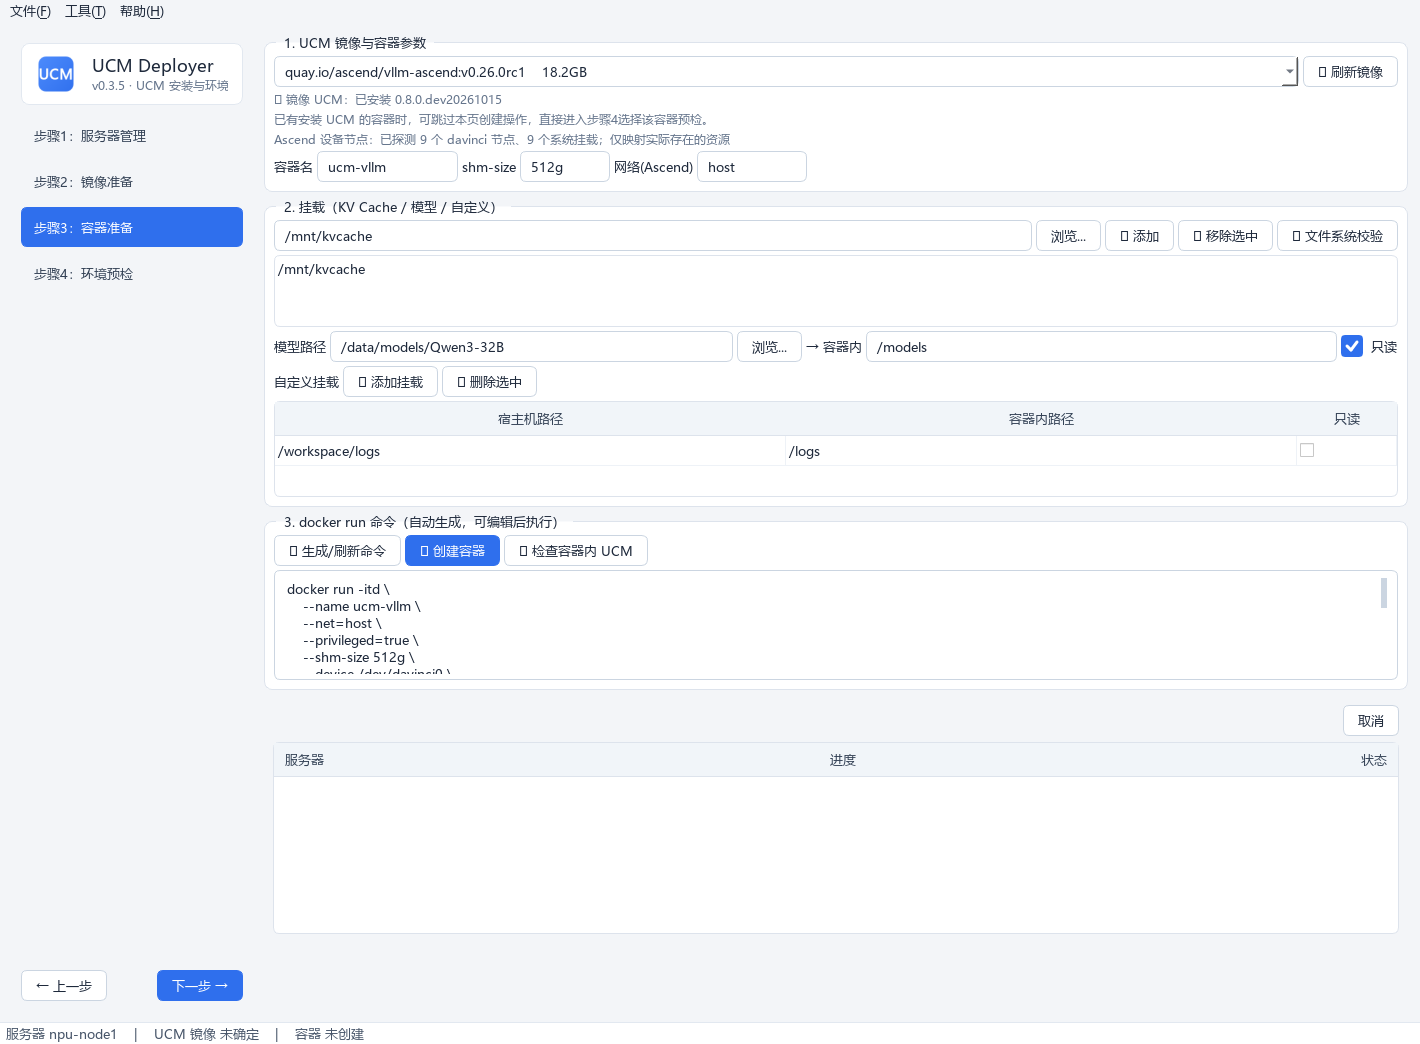
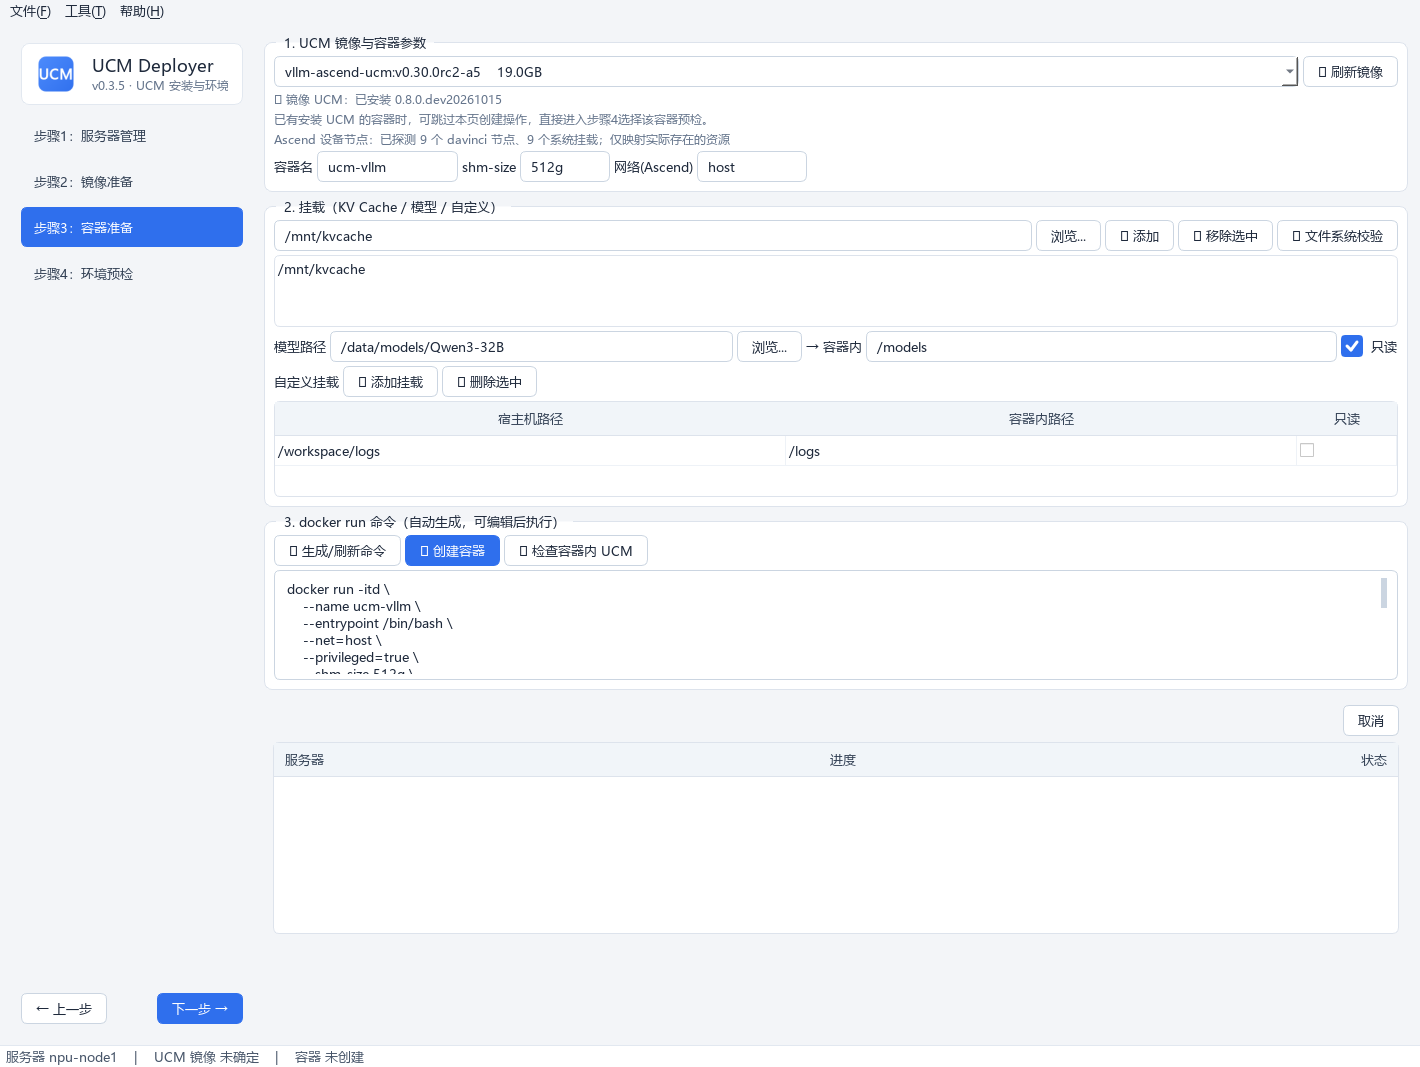
fix(container): start shell without inference entrypoint

diff --git a/docs/index.html b/docs/index.html
@@ -441,6 +441,7 @@ python -m venv .venv
   <pre><code># Ascend NPU：仅映射实际存在的设备节点与系统资源
 docker run -itd \\
   --name ucm-vllm \\
+  --entrypoint /bin/bash \\
   --net=host --shm-size 512g \\
   --device /dev/davinci0 --device /dev/davinci1 \\
   --device /dev/davinci_manager --device /dev/hisi_hdc \\
@@ -456,19 +457,20 @@ docker run -itd \\
   -v /usr/lib64:/usr/lib64 \\
   -v /mnt/kvcache:/mnt/kvcache \\
   -v /data/models/Qwen3-32B:/models:ro \\
-  vllm-ascend-ucm:v0.26.0rc1 bash
+  vllm-ascend-ucm:v0.26.0rc1
 
 # NVIDIA GPU：使用 nvidia-container-runtime
 docker run -itd \\
   --name ucm-vllm \\
+  --entrypoint /bin/bash \\
   --runtime nvidia --gpus all \\
   -p 8000:8000 --ipc=host --shm-size 512g \\
   -v /mnt/kvcache:/mnt/kvcache \\
   -v /data/models:/models:ro \\
-  vllm-openai-ucm:latest bash</code></pre>
+  vllm-openai-ucm:latest</code></pre>
   <div class="callout">
     <b>先编辑，再执行</b>
-    生成的命令完整展示在编辑框中。你可以按环境需要修改参数，点击「🚀 创建容器」后按编辑框内容执行。
+    生成的命令完整展示在编辑框中。命令固定使用 <code>--entrypoint /bin/bash</code>，只创建并保持 Bash 容器运行，不启动 vLLM。你可以按环境需要修改参数，点击「🚀 创建容器」后按编辑框内容执行。
   </div>
 </section>
 

diff --git a/ucm_deployer/core/container_manager.py b/ucm_deployer/core/container_manager.py
@@ -4,6 +4,7 @@ kvcache 挂载目录文件系统校验、宿主机目录浏览。"""
 from __future__ import annotations
 
 import re
+import shlex
 from dataclasses import dataclass, field
 from typing import Dict, List, Optional, Tuple
 
@@ -152,6 +153,7 @@ class ContainerManager:
         cfg.validate()
         lines = ["docker run -itd"]
         lines.append(f"    --name {shq(cfg.name)}")
+        lines.append("    --entrypoint /bin/bash")
 
         if cfg.device_type == DeviceType.ASCEND:
             # Ascend: --net=host + 全部 davinci 设备 + 驱动/工具挂载
@@ -197,7 +199,6 @@ class ContainerManager:
             if extra.strip():
                 lines.append("    " + extra.strip())
         lines.append(f"    {shq(cfg.image)}")
-        lines.append("    bash")
         return " \\\n".join(lines)
 
     def list_ascend_devices(self) -> List[str]:
@@ -239,9 +240,37 @@ class ContainerManager:
         return selected
 
     # ------------------------------------------------------------ 执行
+    @staticmethod
+    def _validate_shell_entrypoint(command: str) -> None:
+        """确保容器只启动 Bash，不触发镜像默认的推理服务入口。"""
+        flat = flatten_command(command)
+        try:
+            tokens = shlex.split(flat)
+        except ValueError as exc:
+            raise DockerError(f"docker run 命令引号不合法: {exc}") from exc
+
+        entrypoint = ""
+        for index, token in enumerate(tokens):
+            if token == "--entrypoint":
+                if index + 1 >= len(tokens):
+                    break
+                entrypoint = tokens[index + 1]
+            elif token.startswith("--entrypoint="):
+                entrypoint = token.split("=", 1)[1]
+
+        if entrypoint != "/bin/bash":
+            raise DockerError(
+                "创建命令必须包含 --entrypoint /bin/bash，"
+                "以覆盖镜像默认入口并避免启动 vLLM 推理服务")
+        if tokens and tokens[-1] in ("bash", "/bin/bash"):
+            raise DockerError(
+                "创建命令不得在镜像后追加 bash；"
+                "--entrypoint /bin/bash 已保证容器进入 Bash 并保持运行")
+
     def create(self, command: str,
                on_line=None) -> CommandResult:
         """执行（可能被用户编辑过的）docker run 命令。"""
+        self._validate_shell_entrypoint(command)
         flat = flatten_command(command)
         return self.docker.run(flat, on_line=on_line)
 

diff --git a/tests/test_container_manager.py b/tests/test_container_manager.py
@@ -47,7 +47,8 @@ def test_ascend_run_command(fake_ssh):
     assert "-v /data/models/DeepSeek:/models:ro" in cmd
     assert "-v /home/user/logs:/logs" in cmd
     assert "--restart=unless-stopped" in cmd
-    assert cmd.rstrip().endswith("bash")
+    assert "--entrypoint /bin/bash" in cmd
+    assert cmd.rstrip().endswith("ucm-vllm:v0.1")
     # 压缩成单行后仍是合法命令
     flat = flatten_command(cmd)
     assert "\\" not in flat
@@ -210,6 +211,25 @@ def test_create_executes_flattened(fake_ssh):
     executed = ssh._client.channels[-1].executed_command
     assert "\n" not in executed and "\\" not in executed
     assert executed.startswith("docker run -itd --name c1")
+    assert "--entrypoint /bin/bash" in executed
+    assert not executed.endswith("bash")
+
+
+def test_create_rejects_missing_shell_entrypoint(fake_ssh):
+    cm, ssh = make_cm(fake_ssh)
+    ssh._client.add(r"^docker run ", stdout="container-id-777\n")
+    with pytest.raises(Exception, match="--entrypoint /bin/bash"):
+        cm.create("docker run -itd --name c1 img:1")
+    assert not ssh._client.channels
+
+
+def test_create_rejects_trailing_bash_argument(fake_ssh):
+    cm, ssh = make_cm(fake_ssh)
+    ssh._client.add(r"^docker run ", stdout="container-id-777\n")
+    with pytest.raises(Exception, match="不得在镜像后追加 bash"):
+        cm.create(
+            "docker run -itd --entrypoint /bin/bash --name c1 img:1 bash")
+    assert not ssh._client.channels
 
 
 def test_list_host_dirs(fake_ssh):

diff --git a/tests/test_gui_smoke.py b/tests/test_gui_smoke.py
@@ -697,6 +697,8 @@ def test_container_page_command_gen(qapp, tmp_path):
 
     cmd = page.command_text()
     assert cmd.startswith("docker run -itd")
+    assert "--entrypoint /bin/bash" in cmd
+    assert not cmd.rstrip().endswith("bash")
     assert "--device /dev/davinci7" in cmd          # 8 卡全量映射
     assert "--device /dev/davinci_manager" in cmd
     assert "--net=host" in cmd
@@ -715,8 +717,10 @@ def test_container_page_command_gen(qapp, tmp_path):
     assert "/dev/devmm_svm" not in cmd
 
     # 命令可直接编辑，创建时按编辑框内容执行
-    page.cmd_edit.setPlainText("docker run -itd --name edited img:t1 bash")
-    assert page.command_text().startswith("docker run -itd --name edited")
+    page.cmd_edit.setPlainText(
+        "docker run -itd --entrypoint /bin/bash --name edited img:t1")
+    assert page.command_text().startswith(
+        "docker run -itd --entrypoint /bin/bash --name edited")
 
     # NVIDIA 设备 -> --runtime nvidia + 端口映射
     ctx.devices = {s1.id: DeviceInfo(DeviceType.NVIDIA, "NVIDIA A800", 8)}
@@ -726,6 +730,8 @@ def test_container_page_command_gen(qapp, tmp_path):
     qapp.processEvents()
     cmd = page.command_text()
     assert "--runtime nvidia" in cmd
+    assert "--entrypoint /bin/bash" in cmd
+    assert not cmd.rstrip().endswith("bash")
     assert "-p 8000:8000" in cmd
     assert "davinci" not in cmd
 

diff --git a/tests/test_gui_all.py b/tests/test_gui_all.py
@@ -586,9 +586,11 @@ def test_container_page_per_server_commands(qapp, tmp_path):
     assert cmd1 != cmd2
 
     # 编辑服务器1的命令不影响服务器2
-    page.cmd_edits[s1.id].setPlainText("docker run -itd --name edited img:t1 bash")
+    page.cmd_edits[s1.id].setPlainText(
+        "docker run -itd --entrypoint /bin/bash --name edited img:t1")
     assert page.command_text(s2.id) == cmd2
-    assert page.command_text(s1.id).startswith("docker run -itd --name edited")
+    assert page.command_text(s1.id).startswith(
+        "docker run -itd --entrypoint /bin/bash --name edited")
 
 
 def test_deploy_page_regen_confirm(qapp, tmp_path):

diff --git a/ucm_deployer/gui/widgets/container_page.py b/ucm_deployer/gui/widgets/container_page.py
@@ -208,6 +208,7 @@ class ContainerPage(QWidget):
             "自动识别服务器卡数并映射全部加速卡：\n"
             "NPU: 全部 /dev/davinci* 设备 + 驱动挂载 + --net=host\n"
             "GPU: --runtime nvidia --gpus all -p 8000:8000\n"
+            "固定 --entrypoint /bin/bash：只创建并保持容器运行，不启动 vLLM\n"
             "命令可编辑，创建容器时按编辑框内容执行。")
 
         cmd_layout = QVBoxLayout(cmd_box)

diff --git a/docs/用户手册.md b/docs/用户手册.md
@@ -10,7 +10,7 @@
 
 - **步骤1 服务器管理**：SSH 登录信息本地加密保存/复用；单选登录一台服务器；`npu-smi`/`nvidia-smi` 设备探测（型号/卡数/CPU 架构）
 - **步骤2 镜像准备**：复用已含 UCM 的镜像；支持上传 tar 包或输入镜像仓库地址自动拉取导入；确需构建时上传 wrapt/UCM/ucm-toolkit whl 并校验匹配
-- **步骤3 容器准备**：选 UCM 镜像（自动校验）；自动探测并映射实际存在的 Ascend 设备节点、驱动与工具挂载，兼容 Ascend950PR/A5；KV Cache / 模型 / 自定义挂载；docker run 命令可编辑后执行；已有 UCM 容器可跳过创建
+- **步骤3 容器准备**：选 UCM 镜像（自动校验）；自动探测并映射实际存在的 Ascend 设备节点、驱动与工具挂载，兼容 Ascend950PR/A5；KV Cache / 模型 / 自定义挂载；固定 `/bin/bash` 入口只创建容器、不启动推理服务；docker run 命令可编辑后执行；已有 UCM 容器可跳过创建
 - **步骤4 环境预检**：显式选择目标容器并在其中运行 ucm-toolkit 预检（环境检查 + 可选挂载目录带宽测试）；UCM 与驱动版本识别失败时自动用 pip、version.info、npu-smi/nvidia-smi 多来源补齐，结果表格逐项展示
 
 所有生成的命令与脚本都是**先展示、可编辑、再执行**。本工具负责 UCM 安装与环境预检，不负责启动或部署推理服务。
@@ -95,7 +95,8 @@ powershell -ExecutionPolicy Bypass -File scripts\build_exe.ps1
 6. **docker run 命令**：点「🔁 生成/刷新命令」自动生成——按服务器实际资源映射加速卡：
    - NPU：逐个探测实际存在的 `/dev/davinci*`、`davinci_manager`、`hisi_hdc`、`devmm_svm`、`ummu`、`uburma`，并只映射存在的节点；同时筛选实际存在的 Ascend 驱动/工具/配置挂载；A5/950PR 检测到 `ummu`/`uburma` 时自动添加 `--privileged=true`
    - GPU：`--runtime nvidia --gpus all -p 8000:8000 --ipc=host`
-   - 命令**可编辑**，点「🚀 创建容器」按编辑框内容执行；
+   - 固定生成 `--entrypoint /bin/bash`，不在镜像后追加 `bash`，只创建并保持 Bash 容器运行，不启动 vLLM；
+   - 命令**可编辑**，点「🚀 创建容器」按编辑框内容执行；执行前校验入口仍是 `/bin/bash`；
 7. 点「✅ 检查容器内 UCM」确认容器可用。
 
 > 若服务器上已有安装 UCM 的容器，可跳过本页创建操作，直接进入步骤4刷新并选择该容器。

diff --git a/docs/guide/step3.md b/docs/guide/step3.md
@@ -2,6 +2,8 @@
 
 基于 UCM 镜像创建 UCM 容器：自动探测并映射实际存在的加速卡设备节点与系统资源，配置挂载，生成的 docker run 命令**可编辑后执行**。
 
+工具固定生成 `--entrypoint /bin/bash`，且不在镜像后追加 `bash`。容器只创建并保持在 Bash 交互环境中，**不会启动 vLLM 或其他推理服务**。
+
 ![步骤3 界面](../screenshots/step3-container.png)
 
 ## 操作流程
@@ -42,6 +44,7 @@
     ```bash
     docker run -itd \
         --name ucm-vllm \
+        --entrypoint /bin/bash \
         --net=host --shm-size 512g \
         --device /dev/davinci0 ... --device /dev/davinci7 \
         --device /dev/davinci_manager --device /dev/hisi_hdc \
@@ -58,7 +61,7 @@
         -v /root/.cache:/root/.cache \
         -v /mnt/kvcache:/mnt/kvcache \
         -v /data/models/Qwen3-32B:/models:ro \
-        vllm-ascend-ucm:v0.26.0rc1 bash
+        vllm-ascend-ucm:v0.26.0rc1
     ```
 
 === "GPU（vllm）"
@@ -66,14 +69,15 @@
     ```bash
     docker run -itd \
         --name ucm-vllm \
+        --entrypoint /bin/bash \
         --runtime nvidia --gpus all \
         -p 8000:8000 --ipc=host --shm-size 512g \
         -v /mnt/kvcache:/mnt/kvcache \
         -v /data/models:/models:ro \
-        vllm-openai-ucm:latest bash
+        vllm-openai-ucm:latest
     ```
 
-命令**可编辑**，点「🚀 创建容器」按编辑框内容执行；完成后可点「✅ 检查容器内 UCM」确认。
+命令**可编辑**，点「🚀 创建容器」按编辑框内容执行；执行前会校验命令仍包含 `--entrypoint /bin/bash` 且未在镜像后追加 `bash`。完成后可点「✅ 检查容器内 UCM」确认。
 
 !!! note "下一步"
     容器创建成功后，进入[步骤4 · 环境预检](step4.md)在容器内做部署前检查。

diff --git a/docs/index.md b/docs/index.md
@@ -21,7 +21,7 @@
 |---|---|
 | **① 服务器管理** | SSH 登录信息本地加密保存/复用；单选登录；`npu-smi`/`nvidia-smi` 设备探测（型号/卡数/CPU 架构） |
 | **② 镜像准备** | 单一来源选择器：复用服务器已有镜像、离线导入 tar 包，或让目标服务器直连 `docker pull`；自动探测基础镜像运行时并校验 wrapt/UCM/ucm-toolkit whl |
-| **③ 容器创建** | 选 UCM 镜像（**选择时自动校验**）；自动探测并映射实际存在的 Ascend 设备节点、驱动与工具挂载，兼容 Ascend950PR/A5；GPU 使用 `--runtime nvidia --gpus all`；docker run 命令**可编辑**后执行 |
+| **③ 容器创建** | 选 UCM 镜像（**选择时自动校验**）；自动探测并映射实际存在的 Ascend 设备节点、驱动与工具挂载，兼容 Ascend950PR/A5；固定 `--entrypoint /bin/bash` 只创建容器、不启动推理服务；docker run 命令**可编辑**后执行 |
 | **④ 环境预检** | 容器内运行 `ucm-toolkit run precheck`（环境检查 + **可选带宽测试**）；UCM 与驱动版本支持多来源补齐；**预检参数可配置**；结果表格+详情区展示（中文名与排查建议） |
 | **工具菜单** | 清理指定容器/镜像（关键字筛选、悬浮看全名） |
 

diff --git a/docs/guide/faq.md b/docs/guide/faq.md
@@ -12,6 +12,10 @@
 
 v0.3.5 起镜像仓库模式改为**服务器直连拉取**：工具通过 SSH 在目标服务器上执行 `docker pull`，并按已探测架构追加 `--platform`。本地不下载、不导出、不上传镜像包，因此无需安装 Docker Desktop；目标服务器需已安装 Docker 且能访问对应仓库。
 
+## 为什么创建容器后没有启动 vLLM？
+
+这是设计行为。UCM Deployer 只负责创建可预检的 UCM 容器，不部署或启动推理服务。生成的命令固定使用 `--entrypoint /bin/bash` 覆盖镜像默认 ENTRYPOINT，且不在镜像后追加 `bash`；因此不会把 `bash` 误当成 vLLM 模型参数，也不会自动加载模型。
+
 ## 构建成功但提示「未检测到 UCM 安装」？
 
 UCM 包名存在**平台变体**（如 `uc-manager-cann910-a2`）。本工具按 `uc-manager*` 前缀宽泛匹配检测（`pip list | grep`），已覆盖各变体；若仍报错请确认 UCM whl 是否正确安装（可手动验证：`docker run --rm <镜像> pip list | grep uc`）。

diff --git a/docs/architecture.md b/docs/architecture.md
@@ -103,6 +103,8 @@ TerminateProcess 从未执行（这正是最初"保险失效"的原因）。
 ### 5.5 命令生成策略
 
 - 所有 docker run 命令**必须**完整展示给用户（可编辑）后再执行；
+- 固定追加 `--entrypoint /bin/bash` 且不追加镜像 CMD，避免触发 vLLM 镜像默认
+  ENTRYPOINT；执行前校验用户编辑后的命令仍保持该语义；
 - 生成器只负责「确定性的部分」（设备映射、挂载、--net/--gpus/--runtime），
   其余参数由用户在编辑框补充；
 - `shell.shq` 智能引号：安全字符集内字符串不加引号（命令可读），
